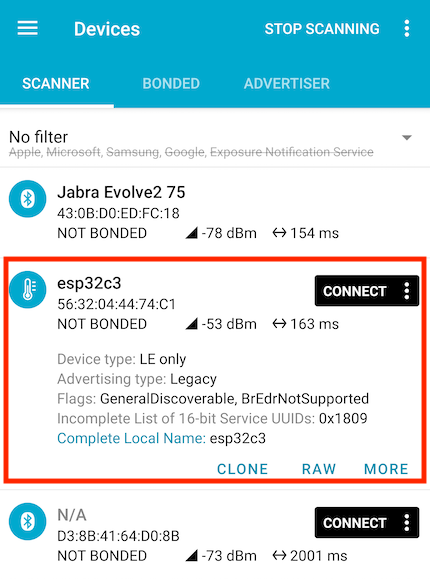
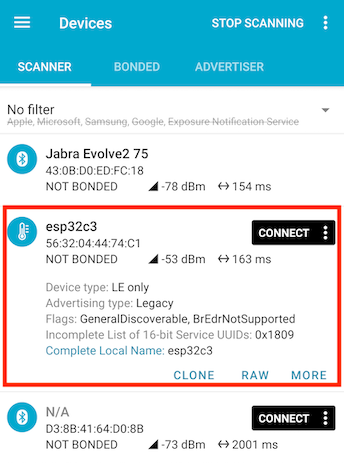
interim

diff --git a/comms/ble/examples/bleps-emb.rs b/comms/ble/examples/bleps-emb.rs
@@ -8,6 +8,7 @@
 *   - limited to C6/C3 MCU's (that the author has access to)
 *   - some other dependency simplifications/edits
 *   - selection of chip not by features, but by macro (that proxies build-time info)
+*   - using 'StaticCell' directly, instead of via a macro
 */
 #![no_std]
 #![no_main]
@@ -20,6 +21,7 @@ use core::{
 use defmt::{info, debug, error, warn};
 use defmt_rtt as _;
 
+// Note: some below rendered red, due to Rust Rover IDE bug. Ignore it
 use bleps::{
     ad_structure::{
         create_advertising_data,
@@ -50,19 +52,18 @@ use esp_wifi::{
     EspWifiController
 };
 
-use static_cell::StaticCell;
-
-// There's also 'static_cell::make_static' but that requires 'nightly'
-#[cfg(not(all()))]
-macro_rules! mk_static {
-    ($t:ty,$val:expr) => {{
-        static STATIC_CELL: StaticCell<$t> = StaticCell::new();
-        let x = STATIC_CELL.init_with(|| ($val));
-        x
-    }};
-}
-
 const CHIP: &str = esp_hal::chip!();    //"esp32c6"
+
+const LOCAL_NAME: &str = CHIP;
+
+// Note: 'gatt!' macro doesn't allow use of constants, but we'd like to have these defined here.
+//      // maybe bypass the macro, one day?=?
+//
+const UUID_SVC: &str = "438785e7-4942-4749-a072-dceb73fd6c87";
+
+const UUID_C0: &str = "448785e7-4942-4749-a072-dceb73fd6c87";
+const UUID_C1: &str = "458785e7-4942-4749-a072-dceb73fd6c87";
+    // tbd. experiment with 16-bit (eg. "12bc") UUID's, at some point; are they ok on a custom service?
 
 #[esp_hal_embassy::main]
 async fn main(_spawner: Spawner) -> ! {
@@ -78,23 +79,14 @@ async fn main(_spawner: Spawner) -> ! {
 
     let timg0 = TimerGroup::new(peripherals.TIMG0);
 
-    let init: &'static EspWifiController = {    // tbd. why is it called 'init'?
-        #[cfg(not(all()))]
-        {
-            &*mk_static!(
-                EspWifiController<'static>,
-                esp_wifi::init(timg0.timer0, Rng::new(peripherals.RNG), peripherals.RADIO_CLK )
+    let init: &'static EspWifiController = {
+        use static_cell::StaticCell;
+        static SC: StaticCell<EspWifiController<'static>> = StaticCell::new();
+
+        SC.init_with( ||
+            esp_wifi::init(timg0.timer0, Rng::new(peripherals.RNG), peripherals.RADIO_CLK)
                 .unwrap()
-            )
-        }
-        #[cfg(all())]
-        {
-            static SC: StaticCell<EspWifiController<'static>> = StaticCell::new();
-            SC.init_with( ||
-                esp_wifi::init(timg0.timer0, Rng::new(peripherals.RNG), peripherals.RADIO_CLK)
-                    .unwrap()
-            )
-        }
+        )
     };
 
     let button = match CHIP {
@@ -129,7 +121,7 @@ async fn main(_spawner: Spawner) -> ! {
                 create_advertising_data(&[
                     AdStructure::Flags(LE_GENERAL_DISCOVERABLE | BR_EDR_NOT_SUPPORTED),
                     AdStructure::ServiceUuids16(&[Uuid::Uuid16(0x1809)]),
-                    AdStructure::CompleteLocalName(esp_hal::chip!()),
+                    AdStructure::CompleteLocalName(LOCAL_NAME),
                 ])
                     .unwrap()
             )
@@ -139,50 +131,57 @@ async fn main(_spawner: Spawner) -> ! {
 
         info!("started advertising");
 
-        let mut rf = |_offset: usize, data: &mut [u8]| {
+        let mut read_0 = |_offset: usize, data: &mut [u8]| {
             data[..20].copy_from_slice(&b"Hello Bare-Metal BLE"[..]);
-            17
+            17  // <-- tbd. what's this? (NOT the length of the string)
         };
-        let mut wf = |offset: usize, data: &[u8]| {
+        let mut write_0 = |offset: usize, data: &[u8]| {
             info!("RECEIVED: {} {:?}", offset, data);
         };
 
-        let mut wf2 = |offset: usize, data: &[u8]| {
+        // Characteristic 1 (multicolored LED):
+        //
+        // Array of three bytes: RGB
+        //
+        let mut write_1 = |offset: usize, data: &[u8]| {
             info!("RECEIVED: {} {:?}", offset, data);
         };
 
-        let mut rf3 = |_offset: usize, data: &mut [u8]| {
-            data[..5].copy_from_slice(&b"Hola!"[..]);
-            5
-        };
-        let mut wf3 = |offset: usize, data: &[u8]| {
-            info!("RECEIVED: Offset {}, data {:?}", offset, data);
-        };
-
+        // Note:
+        //      The 'esp-hal' example uses almost the same UUID, with 1 char variation:
+        //          "937312e0-2354-11eb-9f10-fbc30a62cf38"     // for both service and characteristic #0
+        //          "957[...]"      // characteristic #1
+        //          "987[...]"      // characteristic #2
+        //
+        // We do a bit similar, but use a different UUID for the service - it's likely a mistake
+        // on the side of 'esp-hal'.
+        //
+        // Note #2: 'gatt!' macro insists to get UUIDs as "string literals" (kind of bummer). :/
+        //
+        // Sets:
+        //  - 'gatt_attributes'
+        //  - 'abc_handle'
+        //
         gatt!([service {
-            uuid: "937312e0-2354-11eb-9f10-fbc30a62cf38",
+            uuid: "438785e7-4942-4749-a072-dceb73fd6c87",   // "937312e0-2354-11eb-9f10-fbc30a62cf38",
             characteristics: [
                 characteristic {
-                    uuid: "937312e0-2354-11eb-9f10-fbc30a62cf38",
-                    read: rf,
-                    write: wf,
+                    uuid: "448785e7-4942-4749-a072-dceb73fd6c87", // UUID_C0
+                    read: read_0,
+                    write: write_0,
                 },
                 characteristic {
-                    uuid: "957312e0-2354-11eb-9f10-fbc30a62cf38",
-                    write: wf2,
-                },
-                characteristic {
-                    name: "my_characteristic",
-                    uuid: "987312e0-2354-11eb-9f10-fbc30a62cf38",
+                    name: "abc",     // gets magically turned to '{...}_handle' handler
+                    uuid: "458785e7-4942-4749-a072-dceb73fd6c87",   // UUID_C1
                     notify: true,
-                    read: rf3,
-                    write: wf3,
+                    write: write_1,
                 },
             ],
         },]);
+        let mut ga = gatt_attributes;
 
         let mut rng = bleps::no_rng::NoRng;
-        let mut srv = AttributeServer::new(&mut ble, &mut gatt_attributes, &mut rng);
+        let mut srv = AttributeServer::new(&mut ble, &mut ga, &mut rng);
 
         let counter = RefCell::new(0u8);
         let counter = &counter;
@@ -201,7 +200,7 @@ async fn main(_spawner: Spawner) -> ! {
                     data[data.len() - 1] += *counter;
                     *counter = (*counter + 1) % 10;
                 }
-                NotificationData::new(my_characteristic_handle, &data)
+                NotificationData::new(abc_handle, &data)
             }
         };
 
@@ -230,3 +229,11 @@ fn init_defmt() {
         now().duration_since_epoch().to_micros()
     });
 }
+
+/***R
+async fn async_delay_ms(ms: u32) {
+    use embassy_time::{Duration, Timer};
+
+    Timer::after(Duration::from_millis(ms as u64)) .await
+}
+***/

diff --git a/comms/ble/README.md b/comms/ble/README.md
@@ -1,14 +1,16 @@
 # Bluetooth Low Energy
 
-Exposing an ESP32 device via the [Bluetooth Low Energy](https://learn.adafruit.com/introduction-to-bluetooth-low-energy/introduction) (Adafruit) protocol.
+Exposing an ESP32 device via the *Bluetooth Low Energy* protocol.
 
 **Background**
 
-The BLE protocol is completely separate from "Bluetooth Classic" (which can co-exists with it). The "LE" protocol allows the radio to be switched on and off, saving power.
+The BLE protocol is independent of the "Classic" Bluetooth stack (which continues to co-exist with it). Some devices (like ESP32's and Nordic Semiconductor's only support BLE, not the "classic" profiles).
+
+The "LE" stack is intended for **fitness**, **home automation** and **internet-of-things** use cases, i.e. anywhere where battery powered devices with non-frequent charging opportunities abound.
 
 ## Requirements
 
-An ESP32-C6 or ESP32-C3 devkit (with [JTAG-USB cable added](https://docs.espressif.com/projects/esp-idf/en/stable/esp32c3/api-guides/usb-serial-jtag-console.html) for C3).
+An ESP32-C6 or ESP32-C3 devkit (with [JTAG-USB cable added](https://docs.espressif.com/projects/esp-idf/en/stable/esp32c3/api-guides/usb-serial-jtag-console.html) for C3). No wiring required.
 
 Test this by:
 
@@ -18,7 +20,11 @@ The following debug probes were found:
 [0]: ESP JTAG -- 303a:1001:54:32:04:07:15:10 (EspJtag)
 ```
 
-No wiring is needed. 
+### Debug tooling
+
+Consider installing [nRF Connect for Mobile](https://play.google.com/store/apps/details?id=no.nordicsemi.android.mcp) (Google Play store), or a similar debugging tool on your mobile phone or tablet - and learning to use it.
+
+>The Nordic Semiconductor training material mentioned in the `Recommended Training material` section covers this tool.
 
 
 ## Running
@@ -26,7 +32,7 @@ No wiring is needed.
 ### Launching the Bluetooth device
 
 ```
-$ DEFMT_LOG=debug cargo run --release --example x-emb
+$ DEFMT_LOG=debug cargo run --release --features=defmt --example x-emb
 [...]
 0.793924 [INFO ] esp-wifi configuration EspWifiConfig { rx_queue_size: 5, tx_queue_size: 3, static_rx_buf_num: 10, dynamic_rx_buf_num: 32, static_tx_buf_num: 0, dynamic_tx_buf_num: 32, csi_enable: false, ampdu_rx_enable: true, ampdu_tx_enable: true, amsdu_tx_enable: false, rx_ba_win: 6, max_burst_size: 1, country_code: "CN", country_code_operating_class: 0, mtu: 1492, tick_rate_hz: 100, listen_interval: 3, beacon_timeout: 6, ap_beacon_timeout: 300, failure_retry_cnt: 1, scan_method: 0 }
 0.853086 [DEBUG] The ble_controller_init was initialized
@@ -41,7 +47,7 @@ $ DEFMT_LOG=debug cargo run --release --example x-emb
 
 ### Confirm that the service is seen (optional)
 
-You can now use a Bluetooth development tool such as [nRF Connect for Mobile](https://play.google.com/store/apps/details?id=no.nordicsemi.android.mcp) (Google Play Store), to:
+Using a Bluetooth development tool such as [nRF Connect for Mobile](https://play.google.com/store/apps/details?id=no.nordicsemi.android.mcp) (Google Play Store):
 
 - confirm that a device named "`esp32c{3|6}`" is advertising itself
 - `CONNECT` to it
@@ -54,6 +60,7 @@ You can now use a Bluetooth development tool such as [nRF Connect for Mobile](ht
 >**Exercise**
 >
 >If you are using the above tool, do this:
+>
 >- `Connect`
 > 	- Tap `Unknown Service` to reveal the characteristics
 >		- You can now read and write those (the DOWN/UP arrows)
@@ -66,6 +73,37 @@ You can now use a Bluetooth development tool such as [nRF Connect for Mobile](ht
 >156.678779 [INFO ] RECEIVED: 0 [72, 105, 32, 116, 111, 32, 121, 111, 117]
 >192.729017 [INFO ] RECEIVED: 0 [72, 105, 32, 97, 103, 97, 105, 110, 33]
 >```
+
+
+## Recommended training material (optional)
+
+To learn more about the potential of BLE, check these:
+
+- [Introduction to Bluetooth Low Energy](https://learn.adafruit.com/introduction-to-bluetooth-low-energy?view=all) (Adafruit; updated Mar'14)
+
+	Simple introduction (maybe 5-10 min).
+
+	>Note: The text has *some* inaccuracies, for example a Bluetooth Peripheral can be in connection with multiple Centrals, at the same time.
+
+- [Bluetooth Low Energy Fundamentals](https://academy.nordicsemi.com/courses/bluetooth-low-energy-fundamentals/) (DevAcademy by Nordic Semiconductor)
+
+	- 6 lessons
+	- "8–10 hours to complete"
+	- Exercises use Nordic hardware, but can also just be read through.
+
+	Author opinion: *If you only plan to attend one course, this is a good one!*
+
+<!-- tbd. read, some day?
+- [The Basic Concepts of Bluetooth Low Energy (BLE) for Beginner](https://pcng.medium.com/the-basic-concepts-of-bluetooth-low-energy-ble-for-beginner-c0fe062190c5) (Medium; Sep'19)
+-->
+
+## Why not use `bleps-macros`?
+
+The `gatt` macro is copied from [`bleps-macros`](https://github.com/bjoernQ/bleps/tree/main/bleps-macros), but:
+
+- `gatt!` provides a value (placed to a variable by the application), instead of assigning a fixed `gatt_attributes` variable. The `bleps-macros` approach confuses RustRover IDE syntax highlighting.
+
+- Rust Rover has a bug in handling crates from a GitHub URL, with features enabled. This eliminates the need for examples to have `macros` feature. *Not a real hard reason, but.. something.*
 
 
 ## Next episode - Web 

diff --git a/comms/ble/TERMINOLOGY.md b/comms/ble/TERMINOLOGY.md
@@ -1,0 +1,28 @@
+# Terminology
+
+*This gives you the basic BLE terminology, in order to follow the source code. For more info, see Training Material (in README).*
+
+### Devices: Peripheral, central vs. Server, client
+
+A **peripheral** is the more power-challenged device, often a battery-operated sensor. It can advertise its presence and features. 
+
+A **central** has more power, and has a wider role e.g. in the connection process. This is normally your phone, tablet or computer.
+
+A **server** provides the data. It stores e.g. the latest messages and provides them to the radio waves once a discussion opportunity presents itself with the client (every `X` ms).
+
+A **client** knows what to do with the peripheral. It is closer to the humand or automation, and can e.g. provide a UI/API to steer the device, or pass the data for longer storage/analysis. Think home automation hub.
+
+Usually, a peripheral is the server, and a central is the client. Which term is being used depends on which aspect of their existence is being focused upon.
+
+A peripheral can connect to multiple centrals, and a central to multiple peripherals.
+
+
+### Service
+
+A BLE peripheral provides one or more services. These can be standardized (so "any" software knows to deal with the device) or custom (only your software knows the tricks).
+
+
+### Capabilities
+
+A service consists of one or more capabilities. These stand for certain data to be read, written or notified when it changes.
+

diff --git a/comms/ble/DEVS/Role of bleps.md b/comms/ble/DEVS/Role of bleps.md
@@ -1,0 +1,16 @@
+# Role of `bleps`
+
+As of Nov'24, the Rust `no-std` ecosystem does not provide a BLE stack.
+
+The [`esp-wifi`](https://github.com/esp-rs/esp-hal/tree/main/esp-wifi) crate provides HCI level BLE access, but that is not sufficient for writing applications.
+
+`esp-hal` examples use [`bjoernQ/bleps`](https://github.com/bjoernQ/bleps), which presents itself as:
+
+><h2>bleps - A toy-level BLE peripheral stack</h2>
+
+What does this mean.. to you?
+
+The upper parts of the stack are here more wobbly than with `esp-hal` and `Embassy`, normally. 
+
+To counteract this, the author intends to wrap the `bleps` use within the `src` of this crate itself.
+
